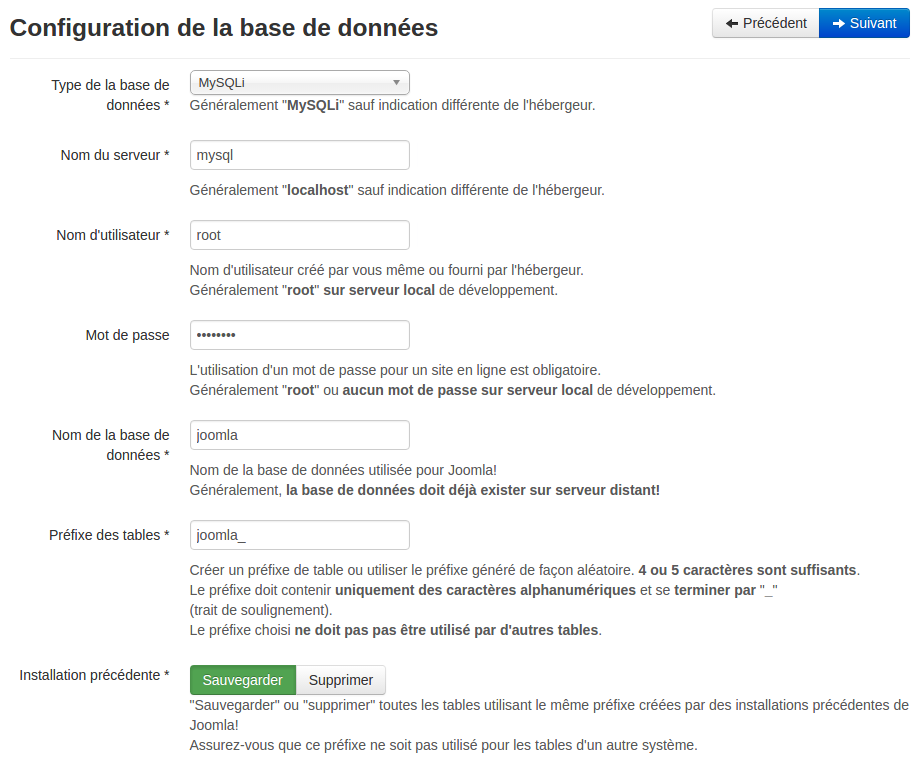
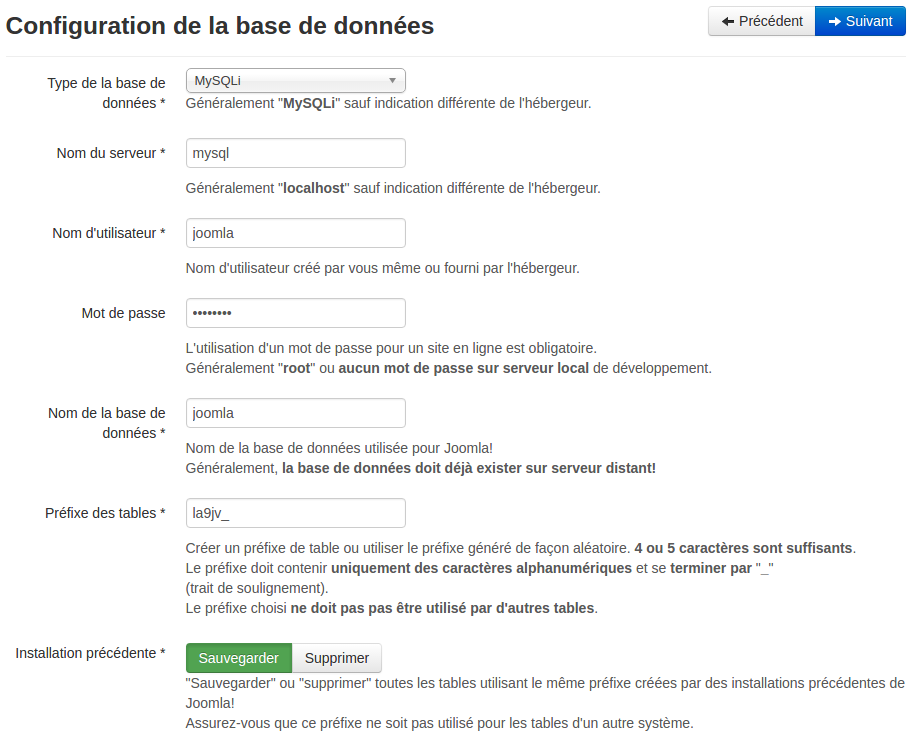
change database username

diff --git a/blueprint-coreos-joomla/README.md b/blueprint-coreos-joomla/README.md
@@ -64,7 +64,7 @@ Une fois ceci fait, les outils de ligne de commande d'OpenStack peuvent interagi
 
 ### Ajuster les paramètres
 
-Dans le fichier `blueprint-coreos-joomla.heat.yml` vous trouverez en haut une section `parameters`. Le seul paramètre obligatoire à ajuster est celui nommé `keypair_name` dont la valeur `default` doit contenir le nom d'une paire de clés valide dans votre compte utilisateur. Vous devrez aussi saisir le mot de passe qui sera donné au compte `root` de votre base `MySQL`.
+Dans le fichier `blueprint-coreos-joomla.heat.yml` vous trouverez en haut une section `parameters`. Le seul paramètre obligatoire à ajuster est celui nommé `keypair_name` dont la valeur `default` doit contenir le nom d'une paire de clés valide dans votre compte utilisateur. Vous devrez aussi saisir le mot de passe qui sera donné au compte `joomla` de votre base `MySQL`.
 C'est dans ce même fichier que vous pouvez ajuster la taille de l'instance par le paramètre `flavor`.
 
 ~~~ yaml
@@ -95,7 +95,7 @@ parameters:
           - n1.cw.standard-16
 
   sqlpass:
-    description: password root sql
+    description: "password sql (user: joomla)"
     type: string
     hidden: true
 [...]
@@ -151,7 +151,7 @@ Et bien si ! En utilisant la console, vous pouvez déployer Joomla! :
 6.	Cliquez sur « Lancer la stack », puis cliquez sur « fichier du modèle » et sélectionnez le fichier que vous venez de sauvegarder sur votre PC, puis cliquez sur « SUIVANT »
 7.	Donnez un nom à votre stack dans le champ « Nom de la stack »
 8.	Entrez votre keypair dans le champ « keypair_name »
-9.  Donner votre passphrase qui servira pour le compte root de votre base de données MySQL
+9.  Donner votre passphrase qui servira pour le compte joomla de votre base de données MySQL
 10.	Choisissez la taille de votre instance parmi le menu déroulant « flavor_name » et cliquez sur « LANCER »
 
 La stack va se créer automatiquement (vous pouvez en voir la progression cliquant sur son nom). Quand tous les modules deviendront « verts », la création sera terminée. Vous pourrez alors aller dans le menu « Instances » pour découvrir l’IP flottante qui a été générée automatiquement. Ne vous reste plus qu'à vous connecter en ssh avec votre keypair.

diff --git a/blueprint-coreos-joomla/README_EN.md b/blueprint-coreos-joomla/README_EN.md
@@ -65,7 +65,7 @@ Once this done, the Openstack command line tools can interact with your Cloudwat
 
 ### Adjust the parameters
 
-With the `blueprint-coreos-joomla.heat.yml` file, you will find at the top a section named `parameters`. The sole mandatory parameter to adjust is the one called `keypair_name`. Its `default` value must contain a valid keypair with regards to your Cloudwatt user account.You will also enter the `root` password account of your `MySQL` database. This is within this same file that you can adjust the instance size by playing with the `flavor` parameter.
+With the `blueprint-coreos-joomla.heat.yml` file, you will find at the top a section named `parameters`. The sole mandatory parameter to adjust is the one called `keypair_name`. Its `default` value must contain a valid keypair with regards to your Cloudwatt user account.You will also enter the `joomla` password account of your `MySQL` database. This is within this same file that you can adjust the instance size by playing with the `flavor` parameter.
 
 ~~~ yaml
 heat_template_version: 2013-05-23
@@ -95,7 +95,7 @@ parameters:
           - n1.cw.standard-16
 
   sqlpass:
-    description: password root sql
+    description: "password sql (user: joomla)"
     type: string
     hidden: true
 [...]
@@ -151,7 +151,7 @@ parameters:
  6.	Click on « Launch stack », then « Template file » and select the file you just saved to your PC, and finally click on « NEXT »
  7.	Name your stack in the « Stack name » field
  8.	Enter the name of your keypair in the « SSH Keypair » field
- 9.  Write a passphrase that will be used for the database root user
+ 9.  Write a passphrase that will be used for the database joomla user
  10.	Choose your instance size using the « Instance Type » dropdown and click on « LAUNCH »
 
  The stack will be automatically generated (you can see its progress by clicking on its name). When all modules become green, the creation will be complete. You can then go to the "Instances" menu to find the floating IP, or simply refresh the current page and check the Overview tab for a handy link.
